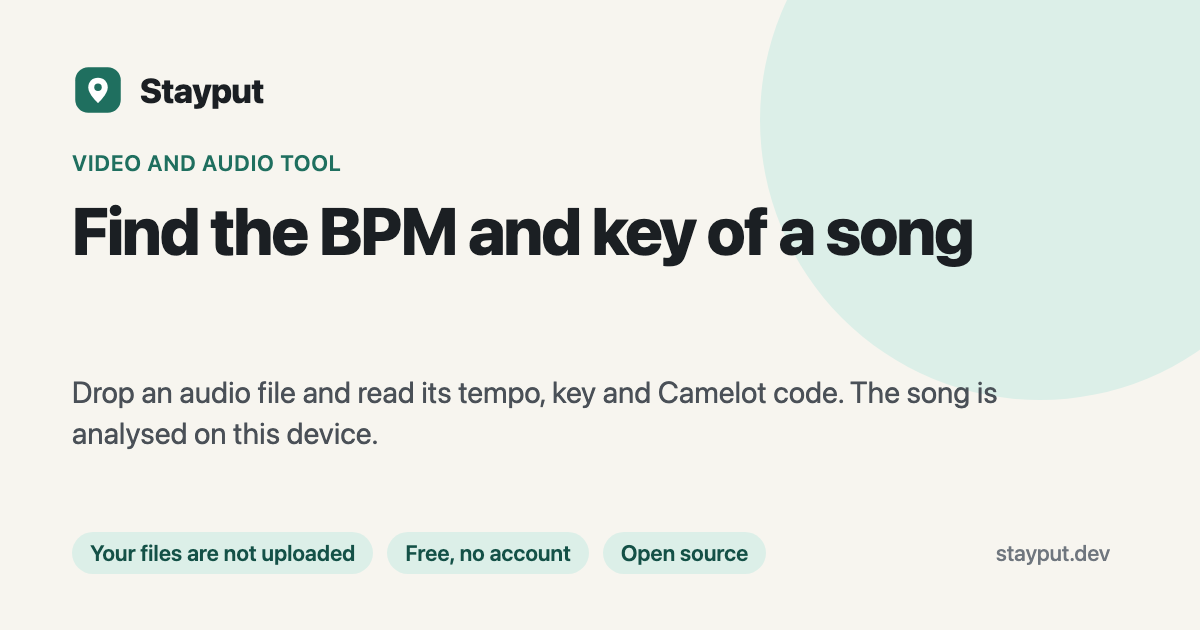
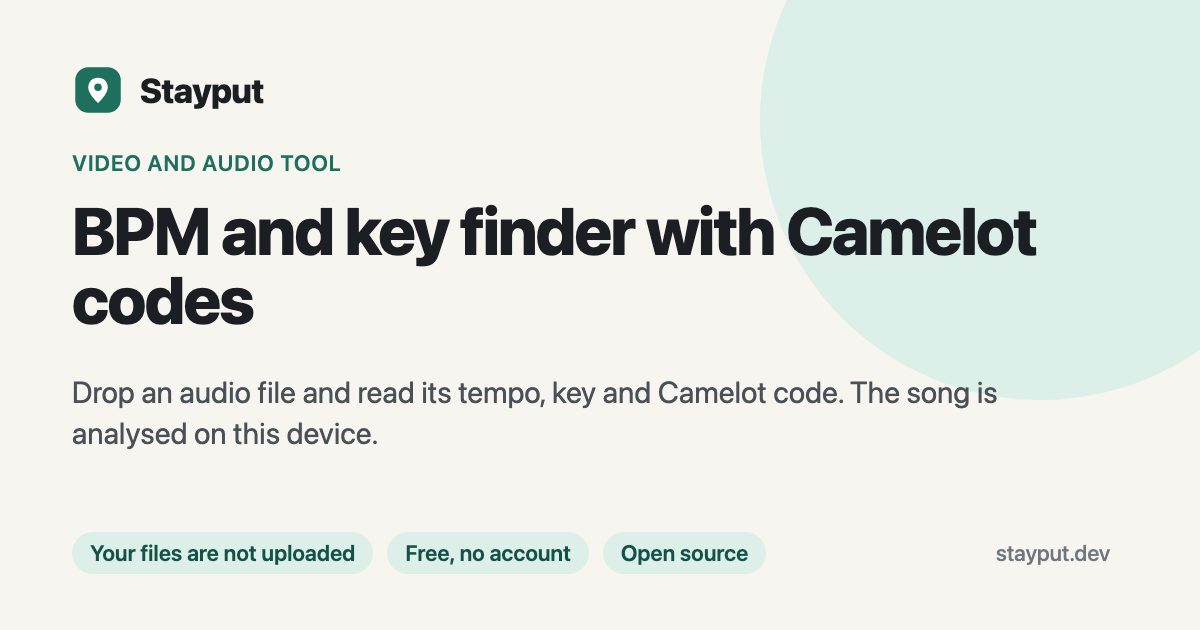
Add /bpm-finder preset of the BPM and key finder; tool page leads with BPM and key and Camelot code
New /bpm-finder owns the BPM finder title, H1 and lead. The tool page title,
heading and keywords move to BPM and key finder, and the two pages link to each
other. Half/double wording follows the code (shown for about 80 to 120 BPM).

Changed region(s): [[0.0617, 0.3317, 0.8633, 0.5127]]

diff --git a/src/data/presets.ts b/src/data/presets.ts
@@ -4740,6 +4740,75 @@ export const presets: Preset[] = [
     ],
   },
   {
+    slug: 'bpm-finder',
+    base: 'bpm-key-finder',
+    name: 'BPM finder',
+    title: 'BPM Finder: Find a Song’s Tempo From a File, Free | Stayput',
+    description: 'Read a song’s BPM from an audio file, with its tempo name, key and Camelot code. Free, no sign-up, and the song is not uploaded.',
+    heading: 'BPM finder for song files',
+    tagline: 'Drop a song and read its BPM. The key and Camelot code come with it.',
+    keywords: ['bpm finder', 'bpm finder online', 'free bpm finder', 'bpm finder mp3', 'song bpm finder', 'audio bpm finder'],
+    dropLabel: 'Drop songs to find their BPM',
+    action: 'Find BPM',
+    sizeFact: 'No account, no watermark',
+    lead:
+      'This BPM finder reads the tempo of a song from an audio file you drop on the page, and shows its key and Camelot code as well. It is free, and your files are not uploaded: everything runs in your browser on your device. Files longer than 15 minutes are not analysed, and after one visit the page works offline.',
+    intro: [
+      'BPM is beats per minute: how many times the steady pulse of a song falls in one minute, the beat you would tap your foot to. DJs match records by it, runners pick playlists by it, and producers need it to line a sample up with a session. This page works it out from the audio itself, so you need the song as a file.',
+      'The page finds the loudness jumps in the sound and the steady beat they line up with. It rounds the answer to a whole number and gives the tempo its traditional name, such as Andante or Allegro.',
+      'A worked example: you drop track.mp3 and the page shows 100 BPM, Andante, with the line “Also read as: 50 or 200”. Under it come the key, A minor, its Camelot code, 8A, and the relative key, C major, 8B, marked Likely. The BPM is the part to use if you only need the tempo; the rest is there for mixing.',
+      'If you have no file and only hear the song, use [Tap tempo](/tap-tempo) and tap along instead.',
+    ],
+    steps: [
+      'Drop one or more songs, or tap to pick them. MP3, WAV, M4A, FLAC, Ogg and most other audio files work; a video’s sound works too.',
+      'Press Find BPM. A three-minute song takes a few seconds.',
+      'Read the BPM and check it by ear against a click on the online metronome.',
+    ],
+    sections: [
+      {
+        heading: 'How to read the BPM',
+        bullets: [
+          'The number is the pulse of the whole file, rounded to a whole BPM, with its tempo name underneath.',
+          'The page folds every answer into 70 to 180 BPM. A slow ballad that the detector hears at 60 is shown as 120, and a very fast track is shown at half. The detector’s own number is in the results file, in the bpm_raw column.',
+          'When the headline is between about 80 and 120 BPM, the page adds “Also read as” with the half and the double, because a slow song with busy drums and a fast one can have the same pulse. Outside that range it shows no alternatives, since the half or the double would be too slow or too fast to be useful.',
+          'Pick the reading that matches how the song feels, or the one your DJ software or session expects.',
+        ],
+      },
+      {
+        heading: 'More than one song',
+        bullets: [
+          'Drop several files and the page analyses them one after another, with a card for each.',
+          'Press the button on a card to copy its result as text, or save all of them as a file named bpm-key-results.csv.',
+          'The results file lists the file name, the length, the BPM, the key, its Camelot code and whether the key was Likely or Unsure. It is made on your device and not sent anywhere.',
+        ],
+      },
+      {
+        heading: 'What this page does not do',
+        bullets: [
+          'It assumes one steady tempo. A song that speeds up, slows down or is played without a click can get a BPM that matches only part of it.',
+          'It reads a file, not a link. A streaming-service or video link cannot be analysed, because the page never fetches anything for you.',
+          'It refuses a clip shorter than 10 seconds, which is too short to find a tempo, and a file longer than 15 minutes. For a longer file, cut the part you want with [Trim audio](/tools/trim-audio).',
+          'A file with no steady beat, such as speech, a drone or a very quiet recording, gets no BPM. The key is still shown if it could be read.',
+        ],
+      },
+      {
+        heading: 'The key and the Camelot code',
+        paragraphs: [
+          'Each result also names the key, with its relative major or minor and its Camelot code, which DJ software shows next to the BPM. A key marked Unsure is a guess to check against an instrument. For a page that starts from the key, see the [BPM and key finder](/tools/bpm-key-finder), and for all 24 codes see the [Camelot wheel](/camelot-wheel).',
+        ],
+      },
+    ],
+    faq: [
+      { q: 'How do I find the BPM of a song file?', a: 'Drop the audio file here and press Find BPM. The page decodes it in your browser, finds the beat and shows the tempo in beats per minute, with its tempo name. If you only have the song playing and no file, use the [Tap tempo](/tap-tempo) page and tap along.' },
+      { q: 'Why is the BPM double or half of what I expected?', a: 'Both readings are the same pulse counted twice. A slow song with a busy hi-hat can be written either way, and a detector cannot always tell which you mean. The page folds its answer into 70 to 180 BPM and, for headlines from about 80 to 120, lists the half and the double next to it. Pick the one that matches how the song feels, or that your DJ software expects.' },
+      { q: 'How do I check the result?', a: 'Play the song next to a click on the [online metronome](/tools/metronome) set to that BPM and see whether they stay together for a whole verse. It is an estimate made from the sound, not a lookup, so a check by ear is worth doing.' },
+      { q: 'What happens with songs that change tempo?', a: 'The page assumes one steady tempo for the whole file, so it reports what fits most of the song. If the song has a tempo change, cut the part you care about with [Trim audio](/tools/trim-audio) and analyse that.' },
+      { q: 'Which files work, and how long can they be?', a: 'Whatever your browser can decode: MP3, WAV, M4A, AAC, FLAC and Ogg are the usual ones, and the sound of a video works too. A file must be between 10 seconds and 15 minutes long. For a longer one, cut the part you want first.' },
+      { q: 'Can I paste a YouTube or Spotify link?', a: 'No. The page analyses files on your device and does not fetch anything from other sites. Use an audio file you have, or tap the tempo with the [Tap tempo](/tap-tempo) page.' },
+      { q: 'Is the song uploaded anywhere?', a: 'No. The file is decoded and analysed by code running in this page, and the results, including the file name in the results file, stay on your device. After one visit you can turn off your internet connection and it still works.' },
+    ],
+  },
+  {
     slug: 'png-to-svg',
     base: 'image-to-svg',
     name: 'PNG to SVG',

diff --git a/tests/bpm-key-finder.spec.ts b/tests/bpm-key-finder.spec.ts
@@ -88,7 +88,7 @@ test('refuses a file longer than 15 minutes, and a clip under 10 seconds, with t
   await expect(page.locator('.bk-failed .bk-error')).toContainText('This clip is 3 seconds long, which is too short to find a tempo. Use a clip of at least 10 seconds.', { timeout: 60_000 });
 });
 
-for (const [slug, focus] of [['song-key-finder', 'key'], ['camelot-wheel', 'camelot']] as const) {
+for (const [slug, focus] of [['song-key-finder', 'key'], ['camelot-wheel', 'camelot'], ['bpm-finder', 'both']] as const) {
   test(`/${slug} is a preset of the finder with its own structured data and social image`, async ({ page }) => {
     const { errors } = await open(page, `/${slug}`);
     await expect(page.locator('script[type="application/ld+json"]')).toHaveCount(3);
@@ -111,4 +111,19 @@ test('the main page carries FAQPage data, and Tap tempo points to the new tool',
   expect(data.mainEntity[0].acceptedAnswer.text).not.toContain('](');
   await page.goto('/tap-tempo');
   await expect(page.locator('a[href="/tools/bpm-key-finder"]').first()).toBeVisible();
+});
+
+test('/bpm-finder owns the BPM finder title and heading, and the tool page leads with BPM and key and links to it', async ({ page }) => {
+  await open(page, '/bpm-finder');
+  await expect(page).toHaveTitle(/^BPM Finder: /);
+  await expect(page.locator('h1')).toHaveText('BPM finder for song files');
+  await expect(page.locator('body')).not.toContainText(/always (shown?|shows?|lists?)/i);
+  await expect(page.locator('body')).not.toContainText('](');
+  await expect(page.locator('a[href="/tools/bpm-key-finder"]').first()).toBeVisible();
+  await page.goto('/tools/bpm-key-finder');
+  await expect(page).toHaveTitle(/^BPM and Key Finder: .*Camelot/);
+  await expect(page.locator('h1')).toHaveText('BPM and key finder with Camelot codes');
+  await expect(page.locator('a[href="/bpm-finder"]').first()).toBeVisible();
+  const sitemap = await (await page.request.get('/sitemap-0.xml')).text();
+  expect(sitemap).toContain('https://stayput.dev/bpm-finder<');
 });

diff --git a/src/data/tools.ts b/src/data/tools.ts
@@ -2699,9 +2699,9 @@ export const tools: Tool[] = [
   {
     slug: 'bpm-key-finder',
     name: 'BPM and key finder',
-    title: 'BPM and Key Finder: Free, From a File, No Upload | Stayput',
+    title: 'BPM and Key Finder: Tempo, Key and Camelot Code, Free | Stayput',
     description: 'Find the BPM and musical key of a song from an audio file, with its Camelot code. Free, no sign-up, and the song is not uploaded.',
-    heading: 'Find the BPM and key of a song',
+    heading: 'BPM and key finder with Camelot codes',
     tagline: 'Drop an audio file and read its tempo, key and Camelot code. The song is analysed on this device.',
     category: 'media',
     accept: 'audio/*,.mp3,.wav,.wave,.m4a,.aac,.ogg,.oga,.opus,.flac,.caf,.aiff,.aif,.webm,.mp4,.mov',
@@ -2709,7 +2709,7 @@ export const tools: Tool[] = [
     dropLabel: 'Drop songs to find their BPM and key',
     action: 'Find BPM and key',
     sizeFact: 'No account, no watermark',
-    keywords: ['bpm finder', 'bpm and key finder', 'bpm detector', 'bpm finder mp3', 'bpm analyzer', 'song bpm finder', 'find bpm of a song', 'audio bpm finder', 'key and bpm finder'],
+    keywords: ['bpm and key finder', 'key and bpm finder', 'bpm key finder', 'bpm detector', 'bpm analyzer', 'song key and bpm'],
     steps: [
       'Drop one or more songs, or tap to pick them. MP3, WAV, M4A, FLAC, Ogg and most other audio files work; a video’s sound works too.',
       'Press Find BPM and key. A three-minute song takes a few seconds.',
@@ -2737,6 +2737,7 @@ export const tools: Tool[] = [
       {
         heading: 'Without a file',
         bullets: [
+          'If you only want the tempo, the [BPM finder](/bpm-finder) page puts the BPM first and the key second.',
           'Tap along with a song you can only hear on the [Tap tempo](/tap-tempo) page, and check the answer against a click on the [online metronome](/tools/metronome).',
         ],
       },

diff --git a/tests/mobile-overflow.spec.ts b/tests/mobile-overflow.spec.ts
@@ -24,6 +24,7 @@ const pages = [
   '/itf-14-barcode-generator',
   '/tools/bpm-key-finder',
   '/camelot-wheel',
+  '/bpm-finder',
   '/press',
   '/licenses',
 ];
